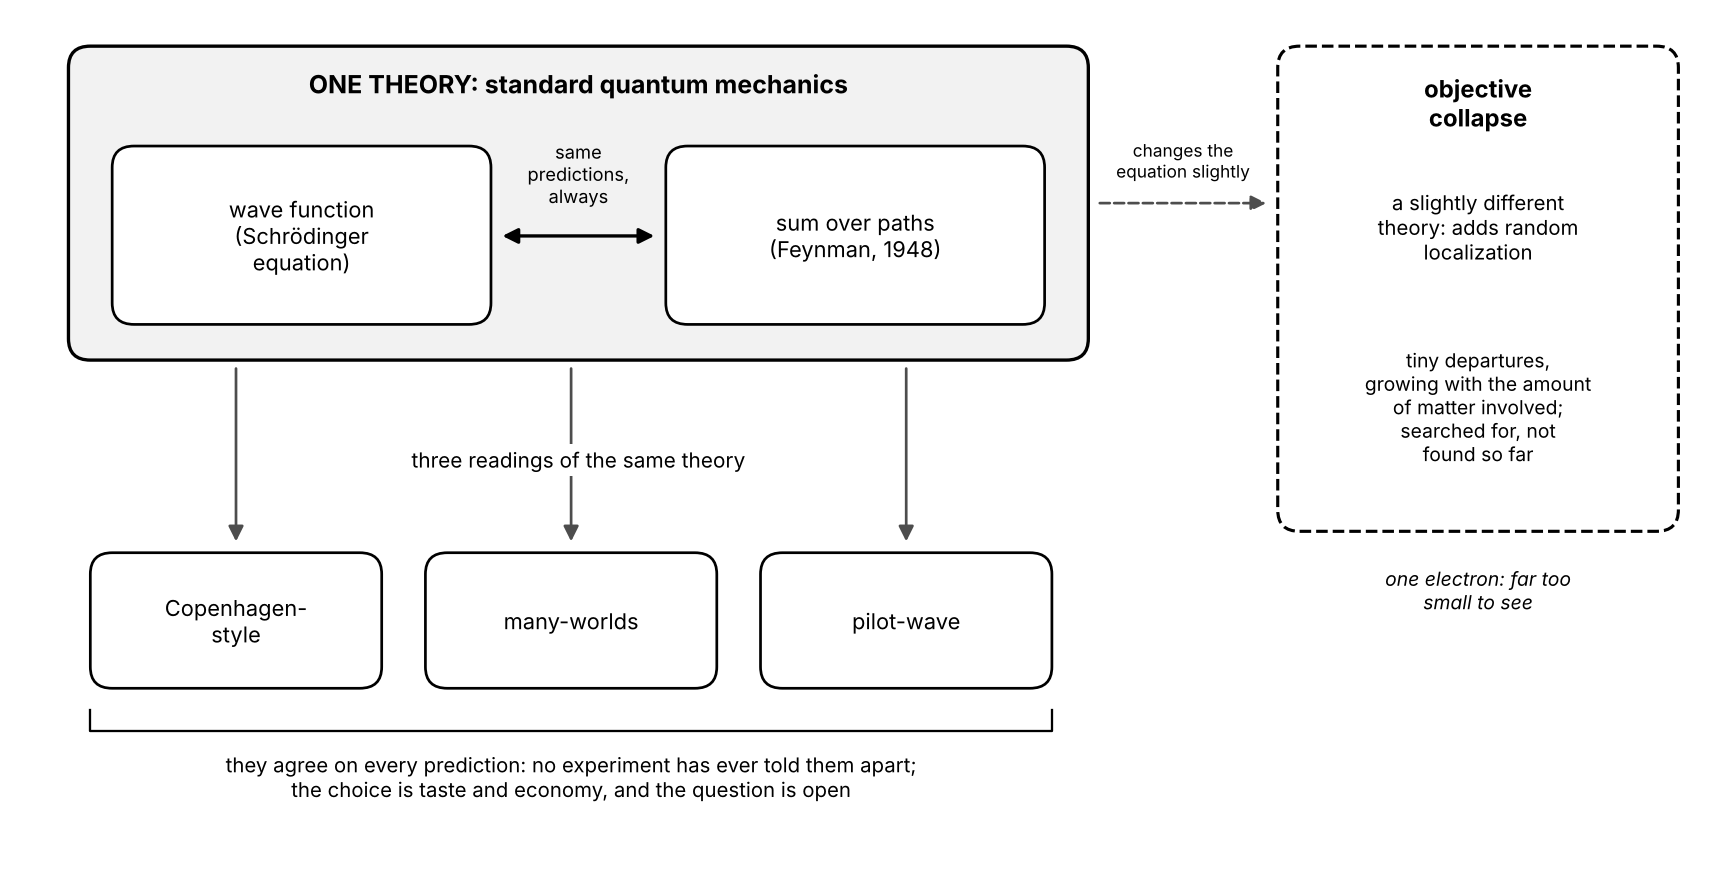
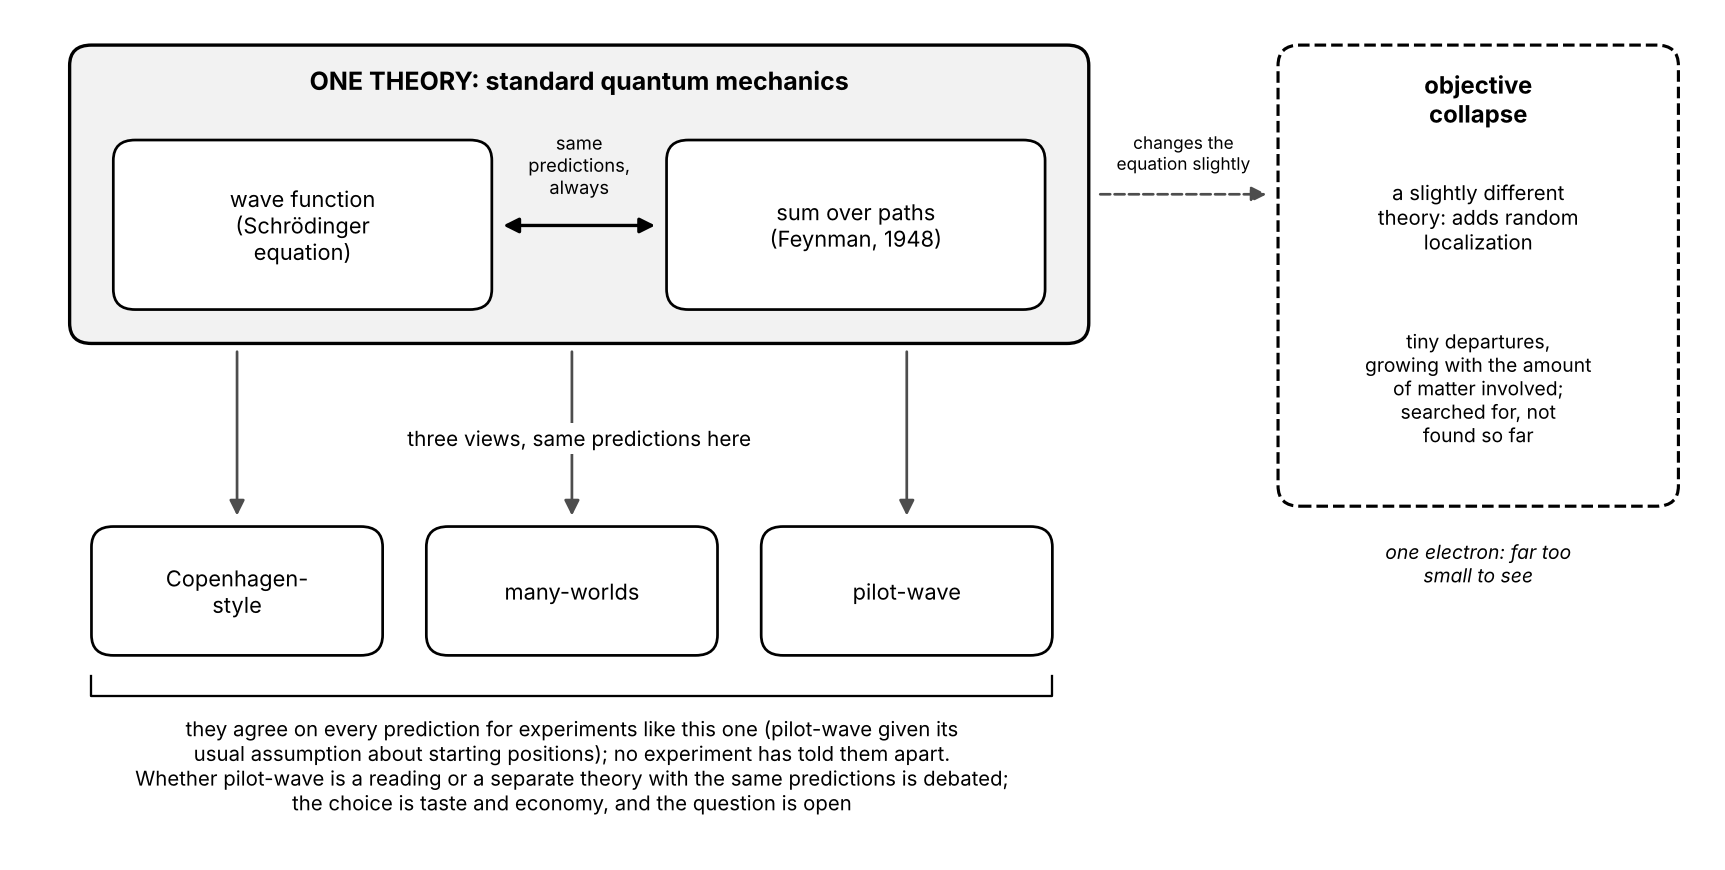
Explanation A: figure review and redrawn figures
Claude-Session: https://claude.ai/code/session_011EeWx5AEdppYiarvRbDBmd

diff --git a/work/20261008-075243-what-is-qm/checks/fig_a-how-relate.py b/work/20261008-075243-what-is-qm/checks/fig_a-how-relate.py
@@ -1,5 +1,6 @@
 # Figure a-how-relate (schematic map, no computed data): one theory in two forms (wave function <-> sum
-# over paths, same predictions); three interpretations as readings of it (no experiment tells them apart);
+# over paths, same predictions); three interpretations with the same predictions for experiments like this one
+# (pilot-wave given quantum-equilibrium starting positions; whether it is a reading or a separate theory is debated);
 # objective collapse as a slightly different theory (tiny departures growing with mass; not found so far).
 import os, matplotlib
 matplotlib.use('Agg'); import matplotlib.pyplot as plt
@@ -7,7 +8,7 @@ from matplotlib.patches import FancyBboxPatch, FancyArrowPatch
 here = os.path.dirname(os.path.abspath(__file__)); out = os.path.join(here, '..', 'figures', 'a-how-relate.png')
 plt.rcParams.update({'font.size': 11})
 fig, ax = plt.subplots(figsize=(11.5, 5.8))
-ax.set_xlim(0, 11.5); ax.set_ylim(0.35, 6.1); ax.axis('off')
+ax.set_xlim(0, 11.5); ax.set_ylim(0.05, 6.1); ax.axis('off')
 
 def rbox(x, y, w, h, ec='k', fc='white', ls='-', lw=1.3, r=0.15):
     ax.add_patch(FancyBboxPatch((x, y), w, h, boxstyle=f'round,pad=0,rounding_size={r}', ec=ec, fc=fc, ls=ls, lw=lw))
@@ -31,10 +32,12 @@ for x, n in zip(xs, names):
     rbox(x, 1.45, 2.0, 0.95)
     ax.text(x+1.0, 1.92, n, ha='center', va='center', fontsize=10.5)
     arrow((x+1.0, 3.72), (x+1.0, 2.45), color='0.3')
-ax.text(3.8, 3.05, "three readings of the same theory", ha='center', va='center', fontsize=10,
+ax.text(3.8, 3.05, "three views, same predictions here", ha='center', va='center', fontsize=10,
         bbox=dict(fc='white', ec='none', pad=1.5))
 ax.plot([0.45, 0.45, 7.05, 7.05], [1.3, 1.15, 1.15, 1.3], color='k', lw=1.1)
-ax.text(3.75, 1.0, "they agree on every prediction: no experiment has ever told them apart;\n"
+ax.text(3.75, 1.0, "they agree on every prediction for experiments like this one (pilot-wave given its\n"
+                   "usual assumption about starting positions); no experiment has told them apart.\n"
+                   "Whether pilot-wave is a reading or a separate theory with the same predictions is debated;\n"
                    "the choice is taste and economy, and the question is open", ha='center', va='top', fontsize=9.8)
 
 # --- objective collapse (right) ---

diff --git a/work/20261008-075243-what-is-qm/checks/fig_a-in-between.py b/work/20261008-075243-what-is-qm/checks/fig_a-in-between.py
@@ -49,7 +49,7 @@ ax.plot([x0 - 0.12, x0 + 0.42], [y0, y0], color='0.5', lw=0.8)
 ax.text(5.25, 4.5, "added tip to tail, the two hands\nend where they started: total 0", fontsize=9, va='center')
 ax.text(5.0, 3.3, "amplitudes add first:  (+1) + (−1) = 0", ha='center', fontsize=10.5)
 ax.text(5.0, 2.6, "chance here = 0²  =  0", ha='center', fontsize=10.5, weight='bold')
-ax.text(5.0, 1.6, "the two routes meet and can cancel:\na dark stripe", ha='center', va='center', fontsize=10)
+ax.text(5.0, 1.6, "the two slits' combined amplitudes\nmeet and can cancel: a dark stripe", ha='center', va='center', fontsize=10)
 
 # ---- right panel: with a record ----
 ax = axs[1]
@@ -66,6 +66,7 @@ ax.text(5.0, 1.6, "no cancelling: the stripes are gone\n(the two one-slit chance
 
 fig.text(0.5, 0.025, "Schematic. Same spot on the screen in both panels (a dark stripe when there is no record); relative units; "
          "thick arrows: each amplitude as a clock hand, up = +1, down = −1.\n"
-         "A record that tells the slits apart only partly lies in between: the routes partly cancel and fainter stripes survive.",
+         "+1 is all the ways through the left slit, taken together; −1 is all the ways through the right slit, taken together.\n"
+         "A record that tells the slits apart only partly lies in between: the two slits' amplitudes partly cancel and fainter stripes survive.",
          ha='center', fontsize=9, color='0.25')
-fig.tight_layout(rect=(0, 0.07, 1, 1)); fig.savefig(out, dpi=150); print("saved", os.path.abspath(out))
+fig.tight_layout(rect=(0, 0.10, 1, 1)); fig.savefig(out, dpi=150); print("saved", os.path.abspath(out))

diff --git a/work/20261008-075243-what-is-qm/checks/fig_a-summary.py b/work/20261008-075243-what-is-qm/checks/fig_a-summary.py
@@ -23,7 +23,7 @@ axs = [fig.add_subplot(gs[0, i]) for i in range(4)]
 titles = ["1. Matter and light arrive\nin whole lumps",
           "2. Where each lands can only\nbe given as chances",
           "3. Chances come from amplitudes\nthat add and cancel",
-          "4. A record of the route\nstops the cancelling"]
+          "4. A record of which slit\nstops the cancelling"]
 for ax, t in zip(axs, titles):
     ax.set_title(t, fontsize=11.5)
     ax.set_xticks([]); ax.set_yticks([])
@@ -77,8 +77,8 @@ for i in range(3):
 
 # bottom note
 axn = fig.add_subplot(gs[1, :]); axn.axis('off')
-axn.text(0.5, 0.5, "The same amplitude rule, plus one rule for identical particles (two electrons never share one state; "
-         "photons can pile into one),\nis the physics behind atoms, chemical bonds, transistors and lasers.",
+axn.text(0.5, 0.5, "The same amplitude rule, applied to electrons and nuclei held by electric forces, plus one rule for identical particles\n"
+         "(two electrons never share one state; photons can pile into one), is the physics behind atoms, chemical bonds, transistors and lasers.",
          ha='center', va='center', fontsize=10.5, transform=axn.transAxes,
          bbox=dict(boxstyle='round,pad=0.6', fc='0.95', ec='0.5'))
 fig.suptitle("What quantum mechanics is about, in four steps (schematic; curves computed for the ideal two-slit set-up)",

diff --git a/work/20261008-075243-what-is-qm/checks/fig_a-model2.py b/work/20261008-075243-what-is-qm/checks/fig_a-model2.py
@@ -94,7 +94,7 @@ ax2.text(0.9, -0.3, "each slit's hands fan out, but the two group\ntotals (bold)
          f"total {abs(z):.1f}, chance {abs(z)**2:.1f}", ha='center', va='top', fontsize=9)
 ax3 = fig.add_subplot(gs[2]); gl, gr, z = draw(ax3, x_dark, "Dark spot (first dark stripe)")
 ax3.set_xlim(-0.12, 1.12); ax3.set_ylim(-0.75, 0.55)
-ax3.text(0.5, -0.3, "left group goes out,\nright group comes straight back:\n"
+ax3.text(0.5, -0.3, "left group total goes out, right group\ntotal points straight back (its hands\ntrace the mirror-image arc):\n"
          f"total {abs(z):.0f}, chance {abs(z)**2:.0f}", ha='center', va='top', fontsize=9)
 fig.text(0.66, 0.06, "Thin arrows: one hand per strip of a slit (8 per slit), added tip to tail; black = left slit, grey = right slit.\n"
          "Bold arrows, drawn just below: each slit's group total (left solid black, right dashed grey).",

diff --git a/work/20261008-075243-what-is-qm/checks/fig_a-three-distances.py b/work/20261008-075243-what-is-qm/checks/fig_a-three-distances.py
@@ -34,7 +34,7 @@ for k, (ax, (title, N, W)) in enumerate(zip(axs, PANELS)):
                     xytext=(0.30*W, -0.125), va='center', fontsize=8.5, arrowprops=dict(arrowstyle='->', lw=0.8))
         ax.set_xlabel(f"position on screen x (units of slit width a; shown: ±{W:g} a)")
         top = ax.secondary_xaxis('top', functions=(lambda v: v*d/lL, lambda X: X*lL/d))
-        top.set_xlabel("same position in stripe spacings (range of figure 2)", fontsize=9.5)
+        top.set_xlabel("same position in stripe spacings (range of the one-slit vs both-slits figure)", fontsize=9.5)
         top.tick_params(labelsize=9)
     if k == 0:
         ax.legend(loc='upper center', fontsize=9, frameon=False, ncol=2)

diff --git a/work/20261008-075243-what-is-qm/review-physics-A-figures.md b/work/20261008-075243-what-is-qm/review-physics-A-figures.md
@@ -1,0 +1,15 @@
+VERDICT: revise
+
+## Issues
+- [major] "the route through the left slit brings amplitude +1" (a-in-between caption; in-figure "the two routes meet and can cancel"; a-summary step 4 "A record of the route") — this counts one route per slit, but a slit has width, so there are infinitely many ways through it. a-model2, two figures earlier, draws many routes per slit, so these figures contradict it. Fix: caption: "all the ways through the left slit, taken together, bring amplitude +1; all the ways through the right slit, together, bring −1". In-figure: "the two slits' combined amplitudes meet and can cancel". Summary title: "4. A record of which slit stops the cancelling".
+- [major] "One number decides which case you are in" (Why a far screen) — this holds only for one slit shape (here, separation four times the width). Whether the bands stay separate depends on how much each band spreads, which is set by the slit width. With very narrow slits (a ≪ d) the bands already overlap and form strong stripes while d²/(λL) is still much larger than 1. The "about 90%" figure is also just the value for the middle panel (N = 3), not a general one. Fix: "For slits like these (separation four times the width), one number decides…; for other slit shapes the slit width matters too." Also: "at a middle distance (the middle panel), opening the second slit cuts the hits at the darkest stripe by about 90%".
+- [major] "no spot where opening the second slit clearly takes hits away" (Why a far screen, close case) — the top panel of a-three-distances contradicts this. In the dim gap, the minima of the faint stripes fall below the left-slit-only curve, and some ripple dips on the bands do too. The effect is small in absolute terms but not absent, and at some gap spots it removes a large share of the local hits. Fix: "opening the second slit takes hits away only at a few dim spots in the gap and on the ripples, a loss of a few per cent of the peak brightness."
+- [major] "they agree on every prediction: no experiment has ever told them apart" (a-how-relate figure and caption) — for pilot-wave, this holds only under its standard assumption that starting positions follow the usual chances (quantum equilibrium). The text itself says pilot-wave's extension to light and high-energy physics is "less settled", so "every prediction" as written goes beyond the text. Also, pilot-wave adds an equation (the steering rule) and particle positions; whether that makes it a "reading" of the theory or a separate theory with the same predictions is itself debated. Fix: "they agree on every prediction for experiments like this one (pilot-wave given its usual assumption about starting positions); no experiment has told them apart". Optionally add "(whether pilot-wave is a reading or a separate theory with the same predictions is debated)".
+- [minor] "the right-slit group comes straight back along the left one" (a-model2 caption) — the picture shows the right-slit hands returning along the mirror-image arc, not along the left arc. Only the group total comes straight back. Fix: "the right-slit group total points straight back along the left one (its hands trace the mirror-image arc)".
+- [minor] "the stripes appear only after thousands (next figure)" (a-setup caption) — the 1,000-electron panel of the next figure already shows clear stripes. Fix: "stripes become clear after about a thousand (next figure)".
+- [minor] "same position in stripe spacings (range of figure 2)" (a-three-distances, top axis) — the ±8 range belongs to a-one-vs-both, which is the third figure in the document; the second is the dots build-up. Fix: "(range of the one-slit vs both-slits figure)".
+- [minor] "the same amplitude rule, plus one rule for identical particles … underlies atoms" (a-summary bottom box and caption) — this leaves out the electric forces, which are also needed. Fix: "the same amplitude rule, applied to electrons and nuclei held by electric forces, plus one rule for identical particles…".
+
+## Sound points worth keeping
+- The computed numbers all match their captions and each other: d = 4a with the missing order at ±4; side bands at 0.047 near 5.7; the overlap-0.5 dark stripe at about a third of the peak (0.95/3); ±0.97 at the dark spot; totals 1.8 and 3.3 one stripe out; stripe spacing d/N in a-three-distances (0.2a, 1.3a, 80a).
+- The pilot-wave panel is computed honestly. Its Gaussian slit edges, and the missing side bands that follow from them, are disclosed, and the paths don't cross the centre line, as they should not. The which-slit and in-between figures say that the record works whether or not anyone reads it, and they name their idealizations.

diff --git a/work/20261008-075243-what-is-qm/figures/a-model2.caption.md b/work/20261008-075243-what-is-qm/figures/a-model2.caption.md
@@ -1,1 +1,1 @@
-Left (schematic, not to scale): a few of the routes from the source through each slit to one spot on the screen. Right (computed): the clock hands for those routes, added tip to tail. The geometry is the ideal set-up of the earlier figures, with source and screen each 100,000 wavelengths from the wall. Each slit is cut into 8 strips. Each thin hand stands for the routes through one strip, and its angle is set by the length of the route through the strip's centre. All hands are drawn the same length; the real lengths differ by under 0.1%. The bold arrows, drawn just below, are each slit's group total. The whole diagram is turned so that the left-slit total points right; only the angles between hands matter. Bright spot, one stripe spacing out: within each slit the hands fan out, so each group total is a bit shorter than its 8 hands laid end to end, but the two totals point the same way. The total is 1.8 and the chance 3.3 (4 at the centre). Dark spot, half a stripe spacing out: the right-slit group comes straight back along the left one, so the total is 0 and so is the chance. With 400 strips per slit instead of 8 the results are the same.
+Left (schematic, not to scale): a few of the routes from the source through each slit to one spot on the screen. Right (computed): the clock hands for those routes, added tip to tail. The geometry is the ideal set-up of the earlier figures, with source and screen each 100,000 wavelengths from the wall. Each slit is cut into 8 strips. Each thin hand stands for the routes through one strip, and its angle is set by the length of the route through the strip's centre. All hands are drawn the same length; the real lengths differ by under 0.1%. The bold arrows, drawn just below, are each slit's group total. The whole diagram is turned so that the left-slit total points right; only the angles between hands matter. Bright spot, one stripe spacing out: within each slit the hands fan out, so each group total is a bit shorter than its 8 hands laid end to end, but the two totals point the same way. The total is 1.8 and the chance 3.3 (4 at the centre). Dark spot, half a stripe spacing out: the right-slit group total points straight back along the left one (its hands trace the mirror-image arc), so the total is 0 and so is the chance. With 400 strips per slit instead of 8 the results are the same.

diff --git a/work/20261008-075243-what-is-qm/figures/a-in-between.caption.md b/work/20261008-075243-what-is-qm/figures/a-in-between.caption.md
@@ -1,1 +1,1 @@
-Why a record stops the cancelling (schematic, relative units). Both panels look at the same spot on the screen, one that is a dark stripe when nothing records the slit: the route through the left slit brings amplitude +1 and the route through the right slit brings −1 (drawn as clock hands pointing up and down). Left, no record: both routes end in the same final situation, "dot here", so their amplitudes are added first, (+1) + (−1) = 0, and the chance there is 0. Right, a perfectly readable record: the routes end in two different final situations, "dot here, recorder says left" and "dot here, recorder says right"; amplitudes in different final situations are never added, so each route gives its own chance and the chance at the spot is 1 + 1 = 2, the two one-slit chances added. Notice: the cancelling is lost because the final situations differ, whether or not anyone reads the recorder. Idealization: a recorder whose two states can be told apart perfectly; if they can be told apart only partly, the routes partly cancel and fainter stripes survive.
+Why a record stops the cancelling (schematic, relative units). Both panels look at the same spot on the screen, one that is a dark stripe when nothing records the slit: all the ways through the left slit, taken together, bring amplitude +1, and all the ways through the right slit, taken together, bring −1 (drawn as clock hands pointing up and down). Left, no record: both slits' contributions end in the same final situation, "dot here", so their amplitudes are added first, (+1) + (−1) = 0, and the chance there is 0. Right, a perfectly readable record: the two slits' contributions end in two different final situations, "dot here, recorder says left" and "dot here, recorder says right"; amplitudes in different final situations are never added, so each slit gives its own chance and the chance at the spot is 1 + 1 = 2, the two one-slit chances added. Notice: the cancelling is lost because the final situations differ, whether or not anyone reads the recorder. Idealization: a recorder whose two states can be told apart perfectly; if they can be told apart only partly, the two slits' amplitudes partly cancel and fainter stripes survive.

diff --git a/work/20261008-075243-what-is-qm/figures/a-summary.caption.md b/work/20261008-075243-what-is-qm/figures/a-summary.caption.md
@@ -1,1 +1,1 @@
-The closing summary in four steps (schematic layout; the dots and curves are computed for the same ideal far-screen two-slit set-up as the earlier figures). 1: each electron arrives as one whole dot. 2: only the chances can be predicted; 4,000 dots, drawn at random from the computed chances, build up the stripes, but no single dot's place can be predicted. 3: at each spot the amplitudes from the two slits add before squaring; alike (+1 and +1) gives 2 and chance 4, opposite (+1 and −1) gives 0 and chance 0, where adding chances would give 2 at both spots. 4: with a perfect which-slit record (idealized), the fine stripes vanish and the pattern becomes the two one-slit patterns added (dashed: a wide band with faint side bands), with the same total number of electrons as the striped curve. Notice that step 4 removes the zeros of step 3, so the dark stripes fill in. Bottom: the same amplitude rule, plus the rule for identical particles, underlies atoms, chemical bonds, transistors and lasers.
+The closing summary in four steps (schematic layout; the dots and curves are computed for the same ideal far-screen two-slit set-up as the earlier figures). 1: each electron arrives as one whole dot. 2: only the chances can be predicted; 4,000 dots, drawn at random from the computed chances, build up the stripes, but no single dot's place can be predicted. 3: at each spot the amplitudes from the two slits add before squaring; alike (+1 and +1) gives 2 and chance 4, opposite (+1 and −1) gives 0 and chance 0, where adding chances would give 2 at both spots. 4: with a perfect record of which slit (idealized), the fine stripes vanish and the pattern becomes the two one-slit patterns added (dashed: a wide band with faint side bands), with the same total number of electrons as the striped curve. Notice that step 4 removes the zeros of step 3, so the dark stripes fill in. Bottom: the same amplitude rule, applied to electrons and nuclei held by electric forces, plus one rule for identical particles, underlies atoms, chemical bonds, transistors and lasers.

diff --git a/work/20261008-075243-what-is-qm/figures/a-how-relate.caption.md b/work/20261008-075243-what-is-qm/figures/a-how-relate.caption.md
@@ -1,1 +1,1 @@
-How the models and views fit together (schematic map). Top: the wave function and the sum over paths are one theory written in two ways, and they always give the same predictions. Below it: Copenhagen-style, many-worlds and pilot-wave are three readings of that one theory; they agree on every prediction, no experiment has ever told them apart, and which to prefer is still an open question. Right, dashed: objective collapse is not a reading but a slightly changed theory, with random localization added. Notice the difference in kind: its departures from standard quantum mechanics are far too small to see for one electron, grow with the amount of matter involved, and have been searched for without being found so far.
+How the models and views fit together (schematic map). Top: the wave function and the sum over paths are one theory written in two ways, and they always give the same predictions. Below it: Copenhagen-style, many-worlds and pilot-wave are three views that agree on every prediction for experiments like this one (pilot-wave given its usual assumption about starting positions); no experiment has told them apart, and which to prefer is still an open question. Copenhagen-style and many-worlds are readings of the standard theory; pilot-wave adds particle positions and a steering rule, and whether that makes it a reading or a separate theory with the same predictions is debated. Right, dashed: objective collapse is clearly not a reading but a slightly changed theory, with random localization added. Notice the difference in kind: its departures from standard quantum mechanics are far too small to see for one electron, grow with the amount of matter involved, and have been searched for without being found so far.

diff --git a/work/20261008-075243-what-is-qm/figures/a-setup.caption.md b/work/20261008-075243-what-is-qm/figures/a-setup.caption.md
@@ -1,1 +1,1 @@
-The two-slit set-up seen from the side (schematic, not to scale). Electrons leave the source one at a time, meet a wall with two narrow slits of width a whose centres are a distance d apart (drawn, as in the other figures, with d = 4a), and each one that gets through makes a single dot on a screen far away; the break in the distance arrow means the real screen is much further off than drawn, and on a far screen the stripes are far wider than the slit separation, so the screen is not drawn to the same scale as the slits. The 14 dots are a real random sample from the ideal far-screen pattern of the later figures, restricted to the part of the screen drawn. Notice: each electron leaves one whole dot, and a handful of dots shows no clear pattern yet; the stripes appear only after thousands (next figure).
+The two-slit set-up seen from the side (schematic, not to scale). Electrons leave the source one at a time, meet a wall with two narrow slits of width a whose centres are a distance d apart (drawn, as in the other figures, with d = 4a), and each one that gets through makes a single dot on a screen far away; the break in the distance arrow means the real screen is much further off than drawn, and on a far screen the stripes are far wider than the slit separation, so the screen is not drawn to the same scale as the slits. The 14 dots are a real random sample from the ideal far-screen pattern of the later figures, restricted to the part of the screen drawn. Notice: each electron leaves one whole dot, and a handful of dots shows no clear pattern yet; stripes become clear after about a thousand (next figure).
